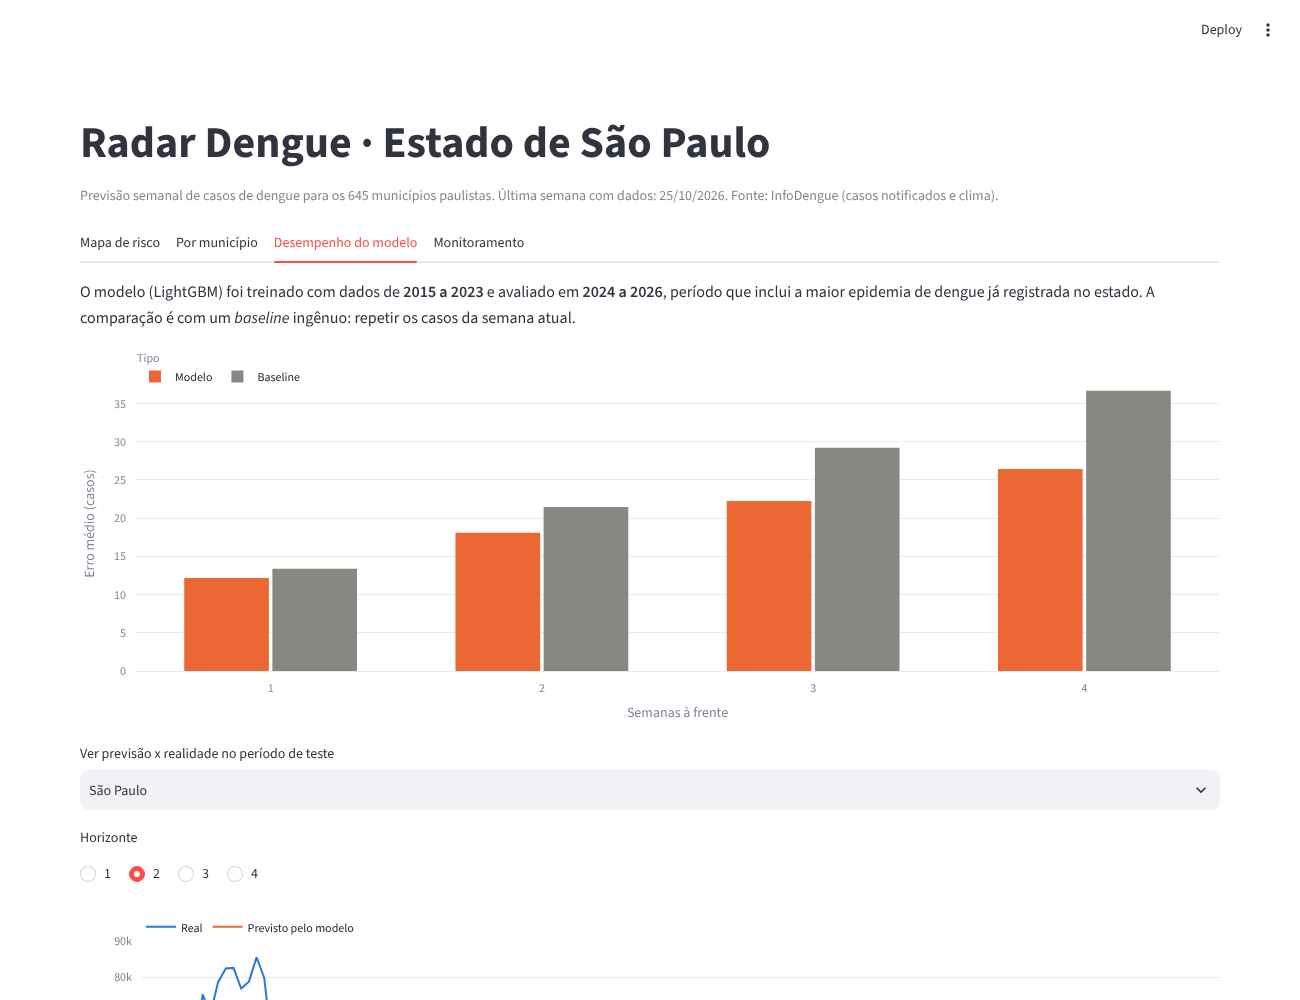
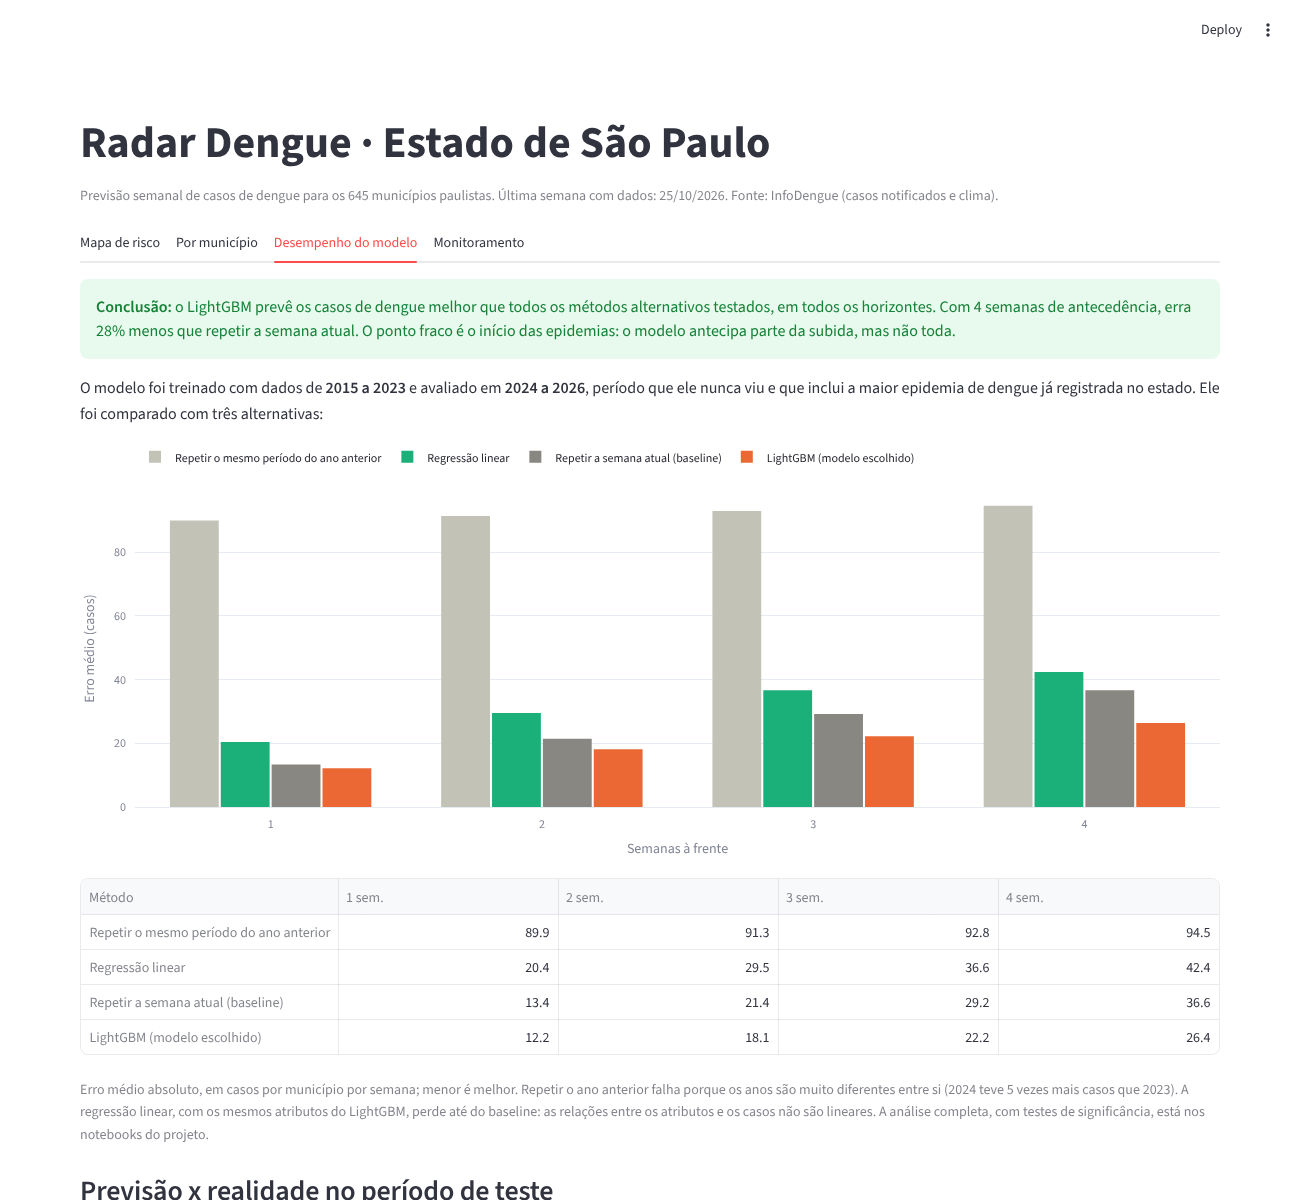
Mostra no dashboard a comparação com os quatro métodos e a conclusão do estudo

diff --git a/app/streamlit_app.py b/app/streamlit_app.py
@@ -41,10 +41,12 @@ def load():
     desempenho = pd.read_parquet(arq_mon) if arq_mon.exists() else pd.DataFrame()
     arq_reg = MODELS / "registro" / "versoes.csv"
     versoes = pd.read_csv(arq_reg) if arq_reg.exists() else pd.DataFrame()
-    return prev, hist, teste, geo, metricas, desempenho, versoes
+    arq_cmp = MODELS / "comparacao.json"
+    comparacao = json.loads(arq_cmp.read_text(encoding="utf-8")) if arq_cmp.exists() else {}
+    return prev, hist, teste, geo, metricas, desempenho, versoes, comparacao
 
 
-prev, hist, teste, geo, metricas, desempenho, versoes = load()
+prev, hist, teste, geo, metricas, desempenho, versoes, comparacao = load()
 semana_base = pd.Timestamp(prev["semana_base"].iloc[0])
 
 st.title("Radar Dengue · Estado de São Paulo")
@@ -150,27 +152,48 @@ with aba_cidade:
 
 # ---------------------------------------------------------------- Modelo
 with aba_modelo:
-    st.markdown(
-        "O modelo (LightGBM) foi treinado com dados de **2015 a 2023** e avaliado em "
-        "**2024 a 2026**, período que inclui a maior epidemia de dengue já registrada no estado. "
-        "A comparação é com um *baseline* ingênuo: repetir os casos da semana atual."
+    st.success(
+        "**Conclusão:** o LightGBM prevê os casos de dengue melhor que todos os métodos "
+        "alternativos testados, em todos os horizontes. Com 4 semanas de antecedência, erra 28% "
+        "menos que repetir a semana atual. O ponto fraco é o início das epidemias: o modelo "
+        "antecipa parte da subida, mas não toda."
     )
-    linhas = []
-    for k, v in metricas.items():
-        for tipo in ["modelo", "baseline"]:
-            linhas.append({"Horizonte": int(k[1:]), "Tipo": tipo.capitalize(),
-                           "Erro médio (casos)": v[tipo]["mae_casos"]})
-    m = pd.DataFrame(linhas)
-    fig = px.bar(m, x="Horizonte", y="Erro médio (casos)", color="Tipo", barmode="group",
-                 color_discrete_map={"Modelo": COR_PREV, "Baseline": COR_BASE})
-    fig.update_layout(height=380, xaxis_title="Semanas à frente",
-                      legend=dict(orientation="h", y=1.1), margin=dict(l=0, r=0, t=30, b=0))
-    fig.update_traces(marker_line_width=0)
-    fig.update_layout(bargap=0.35, bargroupgap=0.04)
-    st.plotly_chart(fig, width="stretch")
+    st.markdown(
+        "O modelo foi treinado com dados de **2015 a 2023** e avaliado em **2024 a 2026**, "
+        "período que ele nunca viu e que inclui a maior epidemia de dengue já registrada no "
+        "estado. Ele foi comparado com três alternativas:"
+    )
+    if comparacao:
+        linhas = [{"Horizonte": int(k[1:]), "Método": metodo, "Erro médio (casos)": v}
+                  for k, d in comparacao.items() for metodo, v in d.items()]
+        cmp = pd.DataFrame(linhas)
+        cores = {"Repetir o mesmo período do ano anterior": "#c3c2b7",
+                 "Regressão linear": "#1baf7a",
+                 "Repetir a semana atual (baseline)": COR_BASE,
+                 "LightGBM (modelo escolhido)": COR_PREV}
+        fig = px.bar(cmp, x="Horizonte", y="Erro médio (casos)", color="Método",
+                     barmode="group", color_discrete_map=cores,
+                     category_orders={"Método": list(cores)})
+        fig.update_layout(height=420, xaxis_title="Semanas à frente",
+                          legend=dict(orientation="h", y=1.15, title=None),
+                          margin=dict(l=0, r=0, t=40, b=0), bargap=0.25, bargroupgap=0.04)
+        fig.update_traces(marker_line_width=0)
+        st.plotly_chart(fig, width="stretch")
+        tabela = cmp.pivot(index="Método", columns="Horizonte", values="Erro médio (casos)")
+        tabela = tabela.loc[list(cores)].rename(columns=lambda c: f"{c} sem.")
+        st.dataframe(tabela.round(1), width="stretch")
+        st.caption(
+            "Erro médio absoluto, em casos por município por semana; menor é melhor. "
+            "Repetir o ano anterior falha porque os anos são muito diferentes entre si (2024 teve "
+            "5 vezes mais casos que 2023). A regressão linear, com os mesmos atributos do "
+            "LightGBM, perde até do baseline: as relações entre os atributos e os casos não são "
+            "lineares. A análise completa, com testes de significância, está nos notebooks do "
+            "projeto."
+        )
 
+    st.subheader("Previsão x realidade no período de teste")
     nomes_t = sorted(teste["municipio"].unique())
-    cidade_t = st.selectbox("Ver previsão x realidade no período de teste", nomes_t,
+    cidade_t = st.selectbox("Município", nomes_t, key="cidade_teste",
                             index=nomes_t.index("São Paulo"))
     h_t = st.radio("Horizonte", [1, 2, 3, 4], index=1, horizontal=True)
     t = teste[(teste["municipio"] == cidade_t) & (teste["horizonte"] == h_t)]

diff --git a/src/radar_dengue/compare.py b/src/radar_dengue/compare.py
@@ -1,0 +1,49 @@
+"""Compara o LightGBM com métodos alternativos no período de teste.
+
+Uso:
+    python -m radar_dengue.compare
+"""
+
+from __future__ import annotations
+
+import json
+
+import lightgbm as lgb
+import numpy as np
+import pandas as pd
+import statsmodels.api as sm
+
+from radar_dengue.config import DATA_RAW, HORIZONS, MODELS
+from radar_dengue.features import FEATURES, add_targets, build_features
+from radar_dengue.model import PARAMS, split
+
+
+def mae(real, prev) -> float:
+    return float(np.mean(np.abs(np.asarray(real) - np.clip(np.asarray(prev, float), 0, None))))
+
+
+def main() -> None:
+    raw = pd.read_parquet(DATA_RAW / "infodengue_sp.parquet")
+    d = add_targets(build_features(raw), HORIZONS)
+    resultado = {}
+    for h in HORIZONS:
+        tr, te = split(d, h)
+        y = f"y_h{h}"
+        real = np.expm1(te[y]).to_numpy()
+        atual = te["log_casos_lag0"].to_numpy()
+        lin = sm.OLS(tr[y] - tr["log_casos_lag0"], sm.add_constant(tr[FEATURES])).fit()
+        gbm = lgb.LGBMRegressor(**PARAMS).fit(tr[FEATURES], tr[y] - tr["log_casos_lag0"])
+        resultado[f"h{h}"] = {
+            "Repetir o mesmo período do ano anterior": mae(real, np.expm1(te["log_casos_lag52"])),
+            "Regressão linear": mae(
+                real, np.expm1(lin.predict(sm.add_constant(te[FEATURES])) + atual)),
+            "Repetir a semana atual (baseline)": mae(real, np.expm1(atual)),
+            "LightGBM (modelo escolhido)": mae(real, np.expm1(gbm.predict(te[FEATURES]) + atual)),
+        }
+        print(h, {k: round(v, 1) for k, v in resultado[f"h{h}"].items()})
+    with open(MODELS / "comparacao.json", "w", encoding="utf-8") as f:
+        json.dump(resultado, f, indent=2, ensure_ascii=False)
+
+
+if __name__ == "__main__":
+    main()
